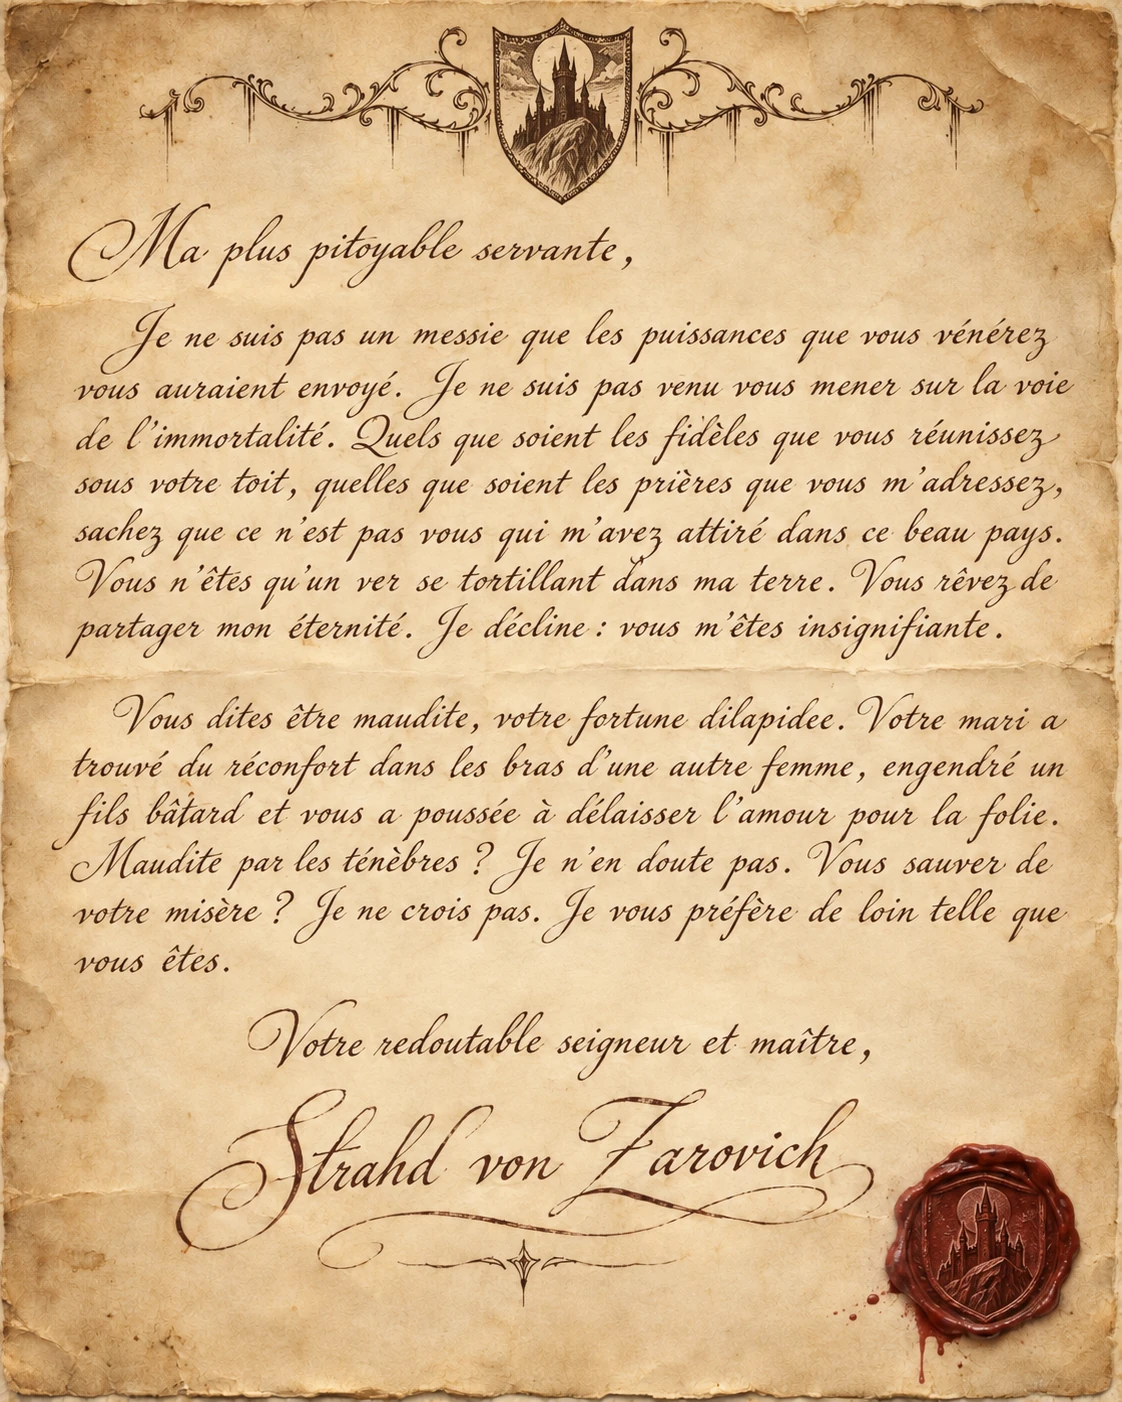
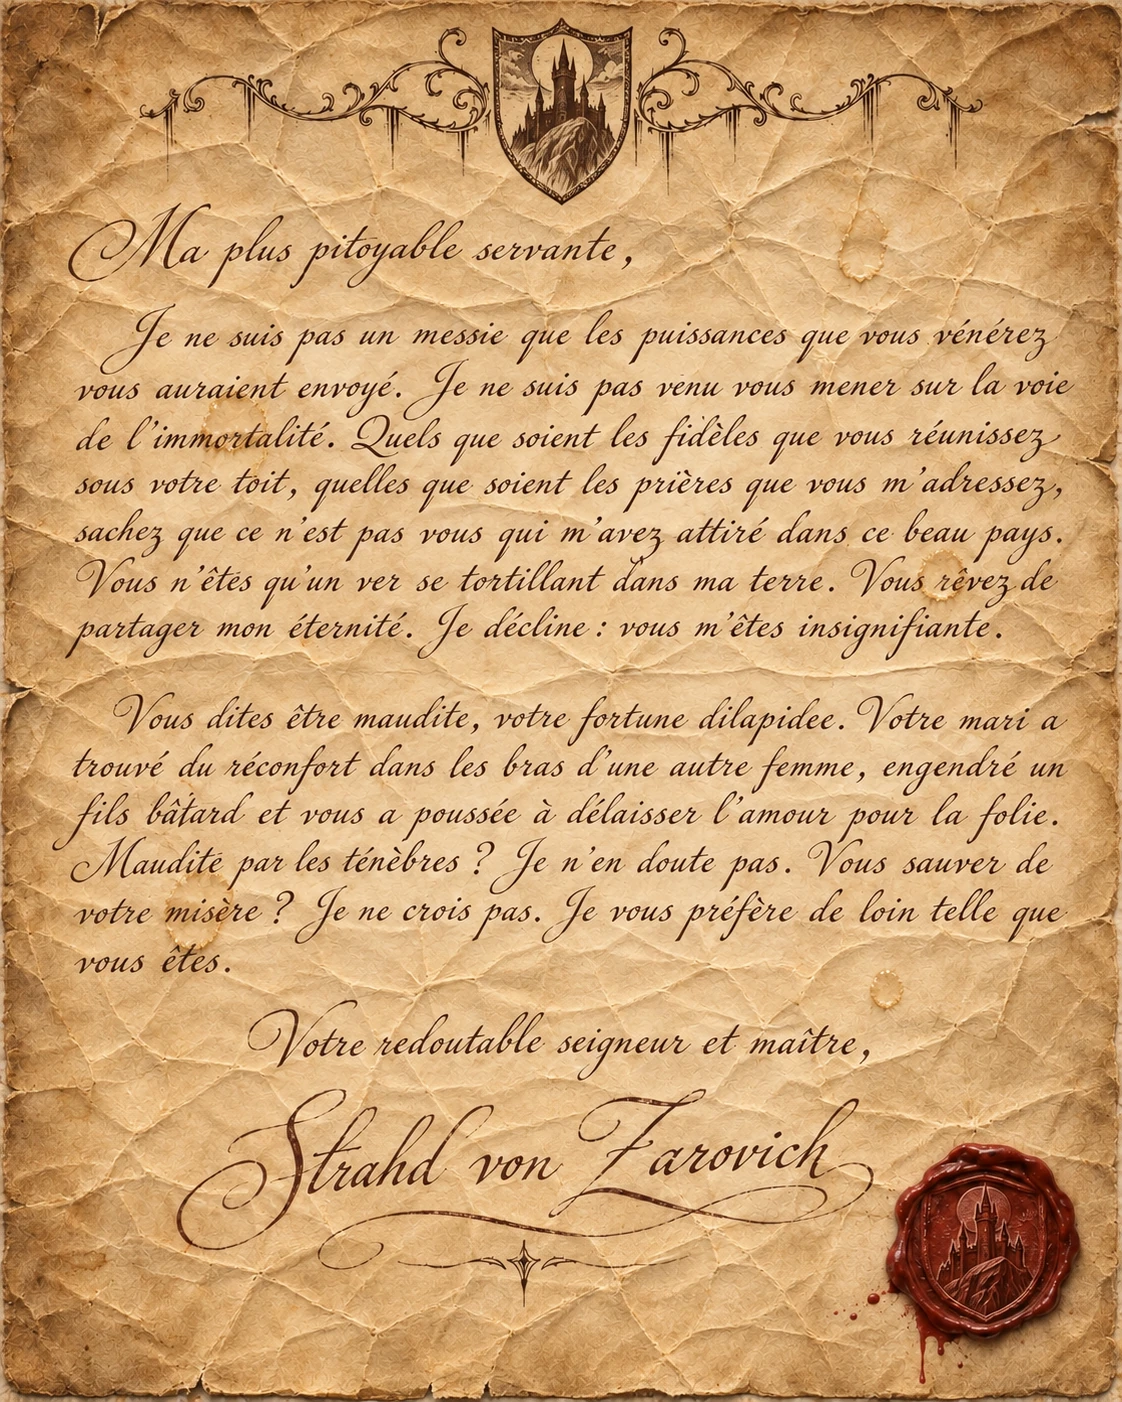
feat: put Strahd's letter and the nursery key on the secret room table
The secret room in Death House gains a work table. Strahd's letter lies
among its papers, crumpled then smoothed out, and the key to Rose and
Thorn's room sits next to it instead of in the music box. The letter
illustration is updated.

Claude-Session: https://claude.ai/code/session_01RGgTgtAmM1TSNiWBmv3Mkd

diff --git a/Act I - Into the Mists/Arc A - Escape From Death House.md b/Act I - Into the Mists/Arc A - Escape From Death House.md
@@ -354,10 +354,14 @@ La porte ne peut s’ouvrir que si l’<a href="../Appendices/Index%20des%20pers
 Cette pièce correspond dans l’ensemble à la description de <span class="citation">Pièce secrète (p. 214)</span>. Lorsque les joueurs y entrent, lisez :
 
 <div class="description">
-<p>Cette petite pièce dissimulée est encombrée d’étagères ployant sous de vieux grimoires reliés de cuir à l’aspect sinistre. Plusieurs symboles occultes sont gravés à même le bois et le sol. Un lourd coffre de bois aux pieds de fer griffus est adossé au mur sud, son couvercle à demi fermé. Les restes d’un squelette richement vêtu en dépassent. Une abominable expérience semble avoir été pratiquée sur celui-ci.</p>
+<p>Cette petite pièce dissimulée est encombrée d’étagères ployant sous de vieux grimoires reliés de cuir à l’aspect sinistre. Plusieurs symboles sont gravés à même le bois et le sol. Une table de travail sur laquelle sont disposés des schémas anatomiques, des rouleaux et des instruments de chirurgie semble avoir été utilisée il y a peu. Un lourd coffre de bois aux pieds de fer griffus est adossé au mur sud, son couvercle ouvert. Les restes d’un squelette richement vêtu en dépassent. Une abominable expérience semble avoir été pratiquée sur celui-ci.</p>
 </div>
 
 ![[Arc_A-Escape_From_Death_House_9deb5353.webp]]
+
+***La table.*** Parmi les papiers les joueurs peuvent trouver la lettre de <a href="../Appendices/Index%20des%20personnages%20et%20cr%C3%A9atures.md#ref-nom-strahd-von-zarovich">Strahd</a>, reproduite ci-dessous. Elle a été écrasée en boule, puis dépliée et lissée à plat. Le papier est usé à force d’avoir été relu, et des traces de larmes séchées marquent encore l’encre. (<a href="../Appendices/Index%20des%20personnages%20et%20cr%C3%A9atures.md#ref-nom-elisabeth-durst">Elisabeth</a> l’a froissée de rage, puis l’a relue jusqu’à en pleurer.)
+
+Une clé est posée à côté de celle-ci. Il s’agit de la clé du cadenas de la chambre de <a href="../Appendices/Non-Player%20Characters.md#en-rosavalda-rose-durst">Rose</a> et <a href="../Appendices/Non-Player%20Characters.md#en-thornboldt-thorn-durst">Thorn</a>.
 
 Le coffre ne contient plus le titre de propriété du Vieux Broyeur d’os. Modifiez également la lettre de <a href="../Appendices/Index%20des%20personnages%20et%20cr%C3%A9atures.md#ref-nom-strahd-von-zarovich">Strahd</a> comme suit :
 
@@ -556,7 +560,7 @@ Cette pièce correspond dans l’ensemble à la description de <span class="cita
 
 Les joueurs peuvent reconnaître la poupée que <a href="../Appendices/Non-Player%20Characters.md#en-thornboldt-thorn-durst">Thorn</a> tenait sur le portrait de famille du palier supérieur.
 
-La boîte à musique contient un couteau à dépecer rouillé et ensanglanté ainsi que la clé du cadenas de la chambre de <a href="../Appendices/Non-Player%20Characters.md#en-rosavalda-rose-durst">Rose</a> et <a href="../Appendices/Non-Player%20Characters.md#en-thornboldt-thorn-durst">Thorn</a>.
+La boîte à musique contient un couteau à dépecer rouillé et ensanglanté.
 
 Elle contient aussi un parchemin roulé qui porte, sous le mot RECRUTEMENT, une douzaine de noms baroviens. (Ce sont les fidèles que réunissait Elisabeth sous son toit ; voir la lettre de <a href="../Appendices/Index%20des%20personnages%20et%20cr%C3%A9atures.md#ref-nom-strahd-von-zarovich">Strahd</a> dans la [pièce secrète](#en-secret-room).)
 
